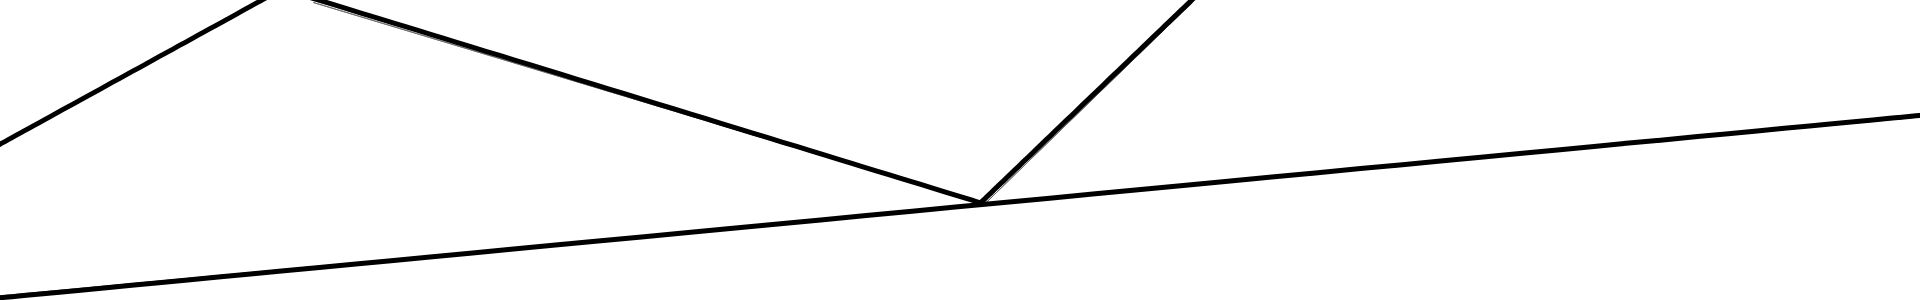
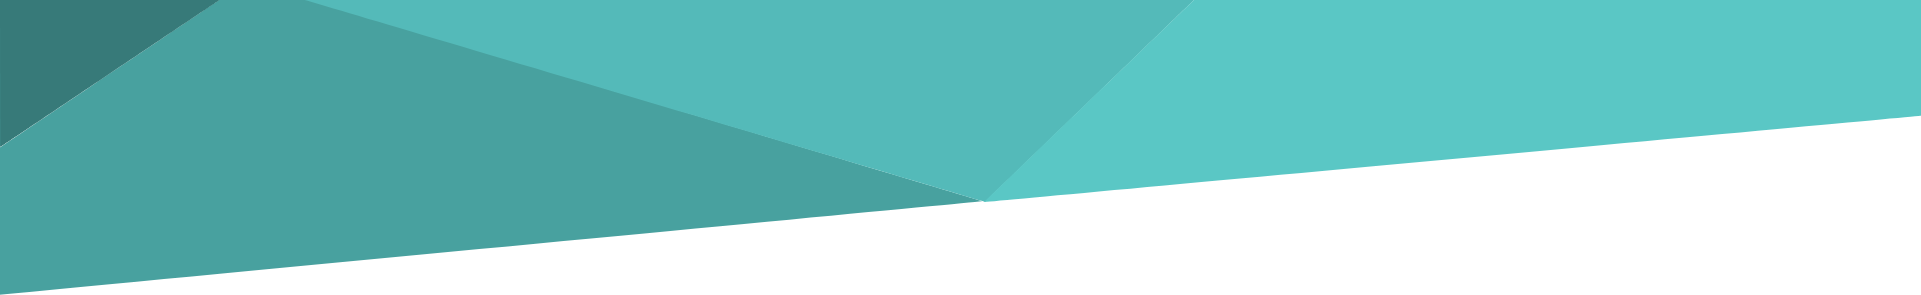
update background and header

diff --git a/projets.html b/projets.html
@@ -1,25 +1,48 @@
 <!DOCTYPE html>
 <html lang="fr">
-<head>
-  <meta charset="UTF-8">
-  <meta http-equiv="X-UA-Compatible" content="IE=edge">
-  <meta name="viewport" content="width=device-width, initial-scale=1.0">
-  <link rel="stylesheet" href="style.css">
-  <title>Caroline Vézina - projets</title>
-</head>
-<body>
-  <header>
-    <div class="mainTitle">
-      <h1>CAROLINE VÉZINA</h1>
-      <h2>DÉVELOPPEUR WEB spécialisation FRONT-END</h2>
-    </div>
-    <div class="contact">
-      <ul>
-				<li><a href="" title="à venir"> linkedin</a></li>
-				<li><a href="" title="à venir"> courriel</a></li>
-			</ul>
-    </div>
-  </header> 
+  <head>
+    <meta charset="UTF-8">
+    <meta http-equiv="X-UA-Compatible" content="IE=edge">
+    <meta name="viewport" content="width=device-width, initial-scale=1.0">
+    <link href="https://cdn.jsdelivr.net/npm/bootstrap@5.2.0-beta1/dist/css/bootstrap.min.css" rel="stylesheet" integrity="sha384-0evHe/X+R7YkIZDRvuzKMRqM+OrBnVFBL6DOitfPri4tjfHxaWutUpFmBp4vmVor" crossorigin="anonymous">
+    <link rel="stylesheet" href="style.css">
+    <title>Caroline Vézina - présentation</title>
+  </head>
+  <body>
+    <header class="navbar bd-navbar sticky-top">
+      <nav class="container-fluid bd-gutter flex-wrap flex-lg-nowrap" aria-label="Main navigation">
+          
+        <a class="navbar-brand p-0 me-0 me-lg-2" href="index.html" >
+          <h1>CAROLINE VÉZINA</h1>
+          <h2>DÉVELOPPEUR WEB spécialisation FRONT-END</h2>
+        </a>     
+    
+        <div>  
+          <div >  
+            <ul class="navbar-nav ms-md-auto">
+              <li class="nav-item col-6 col-lg-auto">
+                <a class="nav-link py-2 px-0 px-lg-2" href="https://www.linkedin.com/in/carolinevézina" target="_blank" rel="noopener">
+                  <svg xmlns="http://www.w3.org/2000/svg" width="20" height="20" fill="currentColor" class="bi bi-linkedin" viewBox="0 0 16 16">
+                    <path d="M0 1.146C0 .513.526 0 1.175 0h13.65C15.474 0 16 .513 16 1.146v13.708c0 .633-.526 1.146-1.175 1.146H1.175C.526 16 0 15.487 0 14.854V1.146zm4.943 12.248V6.169H2.542v7.225h2.401zm-1.2-8.212c.837 0 1.358-.554 1.358-1.248-.015-.709-.52-1.248-1.342-1.248-.822 0-1.359.54-1.359 1.248 0 .694.521 1.248 1.327 1.248h.016zm4.908 8.212V9.359c0-.216.016-.432.08-.586.173-.431.568-.878 1.232-.878.869 0 1.216.662 1.216 1.634v3.865h2.401V9.25c0-2.22-1.184-3.252-2.764-3.252-1.274 0-1.845.7-2.165 1.193v.025h-.016a5.54 5.54 0 0 1 .016-.025V6.169h-2.4c.03.678 0 7.225 0 7.225h2.4z"/>
+                  </svg>
+                  <small class="d-lg-none ms-2">linkedin</small>
+                </a>
+              </li>
+              <li class="nav-item col-6 col-lg-auto">
+                <a class="nav-link py-2 px-0 px-lg-2" href="mailto:caroline_vezina@hotmail.com" target="_blank" rel="noopener">
+                  <svg xmlns="http://www.w3.org/2000/svg" width="20" height="20" fill="currentColor" class="bi bi-envelope-fill" viewBox="0 0 16 16">
+                    <path d="M.05 3.555A2 2 0 0 1 2 2h12a2 2 0 0 1 1.95 1.555L8 8.414.05 3.555ZM0 4.697v7.104l5.803-3.558L0 4.697ZM6.761 8.83l-6.57 4.027A2 2 0 0 0 2 14h12a2 2 0 0 0 1.808-1.144l-6.57-4.027L8 9.586l-1.239-.757Zm3.436-.586L16 11.801V4.697l-5.803 3.546Z"/>
+                  </svg>
+                  <small class="d-lg-none ms-2">courriel</small>
+                </a>
+              </li>  
+            </ul>
+          </div>
+        </div>
+  
+      </nav>
+      
+    </header> 
 
   <div class="body">
 
@@ -37,18 +60,20 @@
     <div class="main">
       <div class="projets">
         <ul>
-          <li><a href="https://asso-vignoblebordeaux.netlify.app" target="_blank">HTML + CSS + Bootstrap</a></li>
-          <li><a href="https://dicegame50.netlify.app" target="_blank">JavaScript</a></li>
-          <li><a href="" >Adobe Xd</a></li>
-          <li><a href="https://agencevoyageav.go.yj.fr/" target="_blank">CMS Wordpress</a></li>
-          <li><a href="https://oursupermusicapp.netlify.app" target="_blank">React JS</a></li>
-          <li><a href="" title="à venir">Front-End</a></li>      
-          <li><a href="https://carolinealetranger.netlify.app" target="_blank">projet personnel</a></li>
+          <li><a href="" target="_blank" title="à venir">HTML + CSS + Bootstrap</a></li>
+          <li><a href="" target="_blank" title="à venir">JavaScript</a></li>
+          <li><a href="" target="_blank" title="à venir">Adobe Xd</a></li>
+          <li><a href="" target="_blank" title="à venir">CMS Wordpress</a></li>
+          <li><a href="" target="_blank" title="à venir">React JS</a></li>
+          <li><a href="" target="_blank" title="à venir">Vue JS</a></li>
+          <li><a href="" target="_blank" title="à venir">Front-End</a></li>      
+          <li><a href="" target="_blank" title="à venir">projet personnel</a></li>
         </ul>
       </div>
     </div>
 
   </div>
   
+  <script src="https://cdn.jsdelivr.net/npm/bootstrap@5.2.0-beta1/dist/js/bootstrap.bundle.min.js" integrity="sha384-pprn3073KE6tl6bjs2QrFaJGz5/SUsLqktiwsUTF55Jfv3qYSDhgCecCxMW52nD2" crossorigin="anonymous"></script>
 </body>
 </html>

diff --git a/index.html b/index.html
@@ -4,26 +4,49 @@
   <meta charset="UTF-8">
   <meta http-equiv="X-UA-Compatible" content="IE=edge">
   <meta name="viewport" content="width=device-width, initial-scale=1.0">
+  <link href="https://cdn.jsdelivr.net/npm/bootstrap@5.2.0-beta1/dist/css/bootstrap.min.css" rel="stylesheet" integrity="sha384-0evHe/X+R7YkIZDRvuzKMRqM+OrBnVFBL6DOitfPri4tjfHxaWutUpFmBp4vmVor" crossorigin="anonymous">
   <link rel="stylesheet" href="style.css">
   <title>Caroline Vézina - présentation</title>
 </head>
 <body>
-  <header>
-    <div class="mainTitle">
-      <h1>CAROLINE VÉZINA</h1>
-      <h2>DÉVELOPPEUR WEB spécialisation FRONT-END</h2>
-    </div>
-    <div class="contact">
-      <ul>
-				<li><a href="" title="à venir"> linkedin</a></li>
-				<li><a href="" title="à venir"> courriel</a></li>
-			</ul>
-    </div>
+  <header class="navbar bd-navbar sticky-top">
+    <nav class="container-fluid bd-gutter flex-wrap flex-lg-nowrap" aria-label="Main navigation">
+        
+      <a class="navbar-brand p-0 me-0 me-lg-2" href="index.html" >
+        <h1>CAROLINE VÉZINA</h1>
+        <h2>DÉVELOPPEUR WEB spécialisation FRONT-END</h2>
+      </a>     
+  
+      <div>  
+        <div >  
+          <ul class="navbar-nav ms-md-auto">
+            <li class="nav-item col-6 col-lg-auto">
+              <a class="nav-link py-2 px-0 px-lg-2" href="https://www.linkedin.com/in/carolinevézina" target="_blank" rel="noopener">
+                <svg xmlns="http://www.w3.org/2000/svg" width="20" height="20" fill="currentColor" class="bi bi-linkedin" viewBox="0 0 16 16">
+                  <path d="M0 1.146C0 .513.526 0 1.175 0h13.65C15.474 0 16 .513 16 1.146v13.708c0 .633-.526 1.146-1.175 1.146H1.175C.526 16 0 15.487 0 14.854V1.146zm4.943 12.248V6.169H2.542v7.225h2.401zm-1.2-8.212c.837 0 1.358-.554 1.358-1.248-.015-.709-.52-1.248-1.342-1.248-.822 0-1.359.54-1.359 1.248 0 .694.521 1.248 1.327 1.248h.016zm4.908 8.212V9.359c0-.216.016-.432.08-.586.173-.431.568-.878 1.232-.878.869 0 1.216.662 1.216 1.634v3.865h2.401V9.25c0-2.22-1.184-3.252-2.764-3.252-1.274 0-1.845.7-2.165 1.193v.025h-.016a5.54 5.54 0 0 1 .016-.025V6.169h-2.4c.03.678 0 7.225 0 7.225h2.4z"/>
+                </svg>
+                <small class="d-lg-none ms-2">linkedin</small>
+              </a>
+            </li>
+            <li class="nav-item col-6 col-lg-auto">
+              <a class="nav-link py-2 px-0 px-lg-2" href="mailto:caroline_vezina@hotmail.com" target="_blank" rel="noopener">
+                <svg xmlns="http://www.w3.org/2000/svg" width="20" height="20" fill="currentColor" class="bi bi-envelope-fill" viewBox="0 0 16 16">
+                  <path d="M.05 3.555A2 2 0 0 1 2 2h12a2 2 0 0 1 1.95 1.555L8 8.414.05 3.555ZM0 4.697v7.104l5.803-3.558L0 4.697ZM6.761 8.83l-6.57 4.027A2 2 0 0 0 2 14h12a2 2 0 0 0 1.808-1.144l-6.57-4.027L8 9.586l-1.239-.757Zm3.436-.586L16 11.801V4.697l-5.803 3.546Z"/>
+                </svg>
+                <small class="d-lg-none ms-2">courriel</small>
+              </a>
+            </li>  
+          </ul>
+        </div>
+      </div>
+
+    </nav>
+    
   </header> 
 
   <div class="body">
 
-    <nav>
+    <nav >
       <ul>
         <li><a href="index.html">présentation</a></li>
         <li><a href="cv.html" >curriculum vitae</a></li>
@@ -42,10 +65,13 @@
         <p>À la suite de mon déménagement en France, j'ai voulu faire un nouveau départ professionnel.  Étant curieuse de nature, j'aime apprendre de nouvelle chose et je m'adapte facilement à un nouvel environnement. Ayant toujours eu un intérêt pour l'informatique et le design, j'ai donc choisi une reconversion en développement web, spécialisation Front-End.</p>
 
         <p>Je suis à la recherche d'un stage pour cet été (entre juin et octobre).  Puisque mes études sont toujours en cours, mes connaissances demeurent en apprentissage; je cherche donc à travailler pour une entreprise dynamique où je développerai mes compétences liées à ce métier avec le soutien de collègues expérimentés.</p>
+       
       </div>
     </div>
 
   </div>
   
+
+  <script src="https://cdn.jsdelivr.net/npm/bootstrap@5.2.0-beta1/dist/js/bootstrap.bundle.min.js" integrity="sha384-pprn3073KE6tl6bjs2QrFaJGz5/SUsLqktiwsUTF55Jfv3qYSDhgCecCxMW52nD2" crossorigin="anonymous"></script>
 </body>
 </html>

diff --git a/cv.html b/cv.html
@@ -1,25 +1,48 @@
 <!DOCTYPE html>
 <html lang="fr">
-<head>
-  <meta charset="UTF-8">
-  <meta http-equiv="X-UA-Compatible" content="IE=edge">
-  <meta name="viewport" content="width=device-width, initial-scale=1.0">
-  <link rel="stylesheet" href="style.css">
-  <title>Caroline Vézina - curriculum vitae</title>
-</head>
-<body>
-  <header>
-    <div class="mainTitle">
-      <h1>CAROLINE VÉZINA</h1>
-      <h2>DÉVELOPPEUR WEB spécialisation FRONT-END</h2>
-    </div>
-    <div class="contact">
-      <ul>
-				<li><a href="" title="à venir"> linkedin</a></li>
-				<li><a href="" title="à venir"> courriel</a></li>
-			</ul>
-    </div>
-  </header> 
+  <head>
+    <meta charset="UTF-8">
+    <meta http-equiv="X-UA-Compatible" content="IE=edge">
+    <meta name="viewport" content="width=device-width, initial-scale=1.0">
+    <link href="https://cdn.jsdelivr.net/npm/bootstrap@5.2.0-beta1/dist/css/bootstrap.min.css" rel="stylesheet" integrity="sha384-0evHe/X+R7YkIZDRvuzKMRqM+OrBnVFBL6DOitfPri4tjfHxaWutUpFmBp4vmVor" crossorigin="anonymous">
+    <link rel="stylesheet" href="style.css">
+    <title>Caroline Vézina - présentation</title>
+  </head>
+  <body>
+    <header class="navbar bd-navbar sticky-top">
+      <nav class="container-fluid bd-gutter flex-wrap flex-lg-nowrap" aria-label="Main navigation">
+          
+        <a class="navbar-brand p-0 me-0 me-lg-2" href="index.html" >
+          <h1>CAROLINE VÉZINA</h1>
+          <h2>DÉVELOPPEUR WEB spécialisation FRONT-END</h2>
+        </a>     
+    
+        <div>  
+          <div >  
+            <ul class="navbar-nav ms-md-auto">
+              <li class="nav-item col-6 col-lg-auto">
+                <a class="nav-link py-2 px-0 px-lg-2" href="https://www.linkedin.com/in/carolinevézina" target="_blank" rel="noopener">
+                  <svg xmlns="http://www.w3.org/2000/svg" width="20" height="20" fill="currentColor" class="bi bi-linkedin" viewBox="0 0 16 16">
+                    <path d="M0 1.146C0 .513.526 0 1.175 0h13.65C15.474 0 16 .513 16 1.146v13.708c0 .633-.526 1.146-1.175 1.146H1.175C.526 16 0 15.487 0 14.854V1.146zm4.943 12.248V6.169H2.542v7.225h2.401zm-1.2-8.212c.837 0 1.358-.554 1.358-1.248-.015-.709-.52-1.248-1.342-1.248-.822 0-1.359.54-1.359 1.248 0 .694.521 1.248 1.327 1.248h.016zm4.908 8.212V9.359c0-.216.016-.432.08-.586.173-.431.568-.878 1.232-.878.869 0 1.216.662 1.216 1.634v3.865h2.401V9.25c0-2.22-1.184-3.252-2.764-3.252-1.274 0-1.845.7-2.165 1.193v.025h-.016a5.54 5.54 0 0 1 .016-.025V6.169h-2.4c.03.678 0 7.225 0 7.225h2.4z"/>
+                  </svg>
+                  <small class="d-lg-none ms-2">linkedin</small>
+                </a>
+              </li>
+              <li class="nav-item col-6 col-lg-auto">
+                <a class="nav-link py-2 px-0 px-lg-2" href="mailto:caroline_vezina@hotmail.com" target="_blank" rel="noopener">
+                  <svg xmlns="http://www.w3.org/2000/svg" width="20" height="20" fill="currentColor" class="bi bi-envelope-fill" viewBox="0 0 16 16">
+                    <path d="M.05 3.555A2 2 0 0 1 2 2h12a2 2 0 0 1 1.95 1.555L8 8.414.05 3.555ZM0 4.697v7.104l5.803-3.558L0 4.697ZM6.761 8.83l-6.57 4.027A2 2 0 0 0 2 14h12a2 2 0 0 0 1.808-1.144l-6.57-4.027L8 9.586l-1.239-.757Zm3.436-.586L16 11.801V4.697l-5.803 3.546Z"/>
+                  </svg>
+                  <small class="d-lg-none ms-2">courriel</small>
+                </a>
+              </li>  
+            </ul>
+          </div>
+        </div>
+  
+      </nav>
+      
+    </header> 
 
   <div class="body">
 
@@ -44,5 +67,6 @@
 
   </div>
 
+  <script src="https://cdn.jsdelivr.net/npm/bootstrap@5.2.0-beta1/dist/js/bootstrap.bundle.min.js" integrity="sha384-pprn3073KE6tl6bjs2QrFaJGz5/SUsLqktiwsUTF55Jfv3qYSDhgCecCxMW52nD2" crossorigin="anonymous"></script>
 </body>
 </html>

diff --git a/style.css b/style.css
@@ -8,49 +8,40 @@ header {
   background-repeat: no-repeat;
   background-size: contain;
   height: 300px;
-  width: 100%;
-  margin-top: -10px;
-  margin-left: -10px;
-  margin-right: -10px;
-  display: flex;
-}
-
-.mainTitle {
-  text-align: center;
-
 }
 
 h1 {
-  font-size: 60px;
-  margin: 90px 90px 0px 90px;
+  font-size: 50px;
 }
 h2 {
-  font-size: 24px;
+  font-size: 20px;
   margin-top: -10px;
 }
 h3 {
   font-size: 40px;
 }
 
-.contact {
-  text-align: right;
-  
+.navbar-brand {
+ margin-left: 100px;
+}
+
+.navbar-nav {
+  margin-top: 80px;
+}
+
+.bi {
+  color: black;
 }
 
 .body {
   background-image: url('images/background_body.png') ;
   background-repeat: no-repeat;
-  background-size: cover;   
-  margin-left: -10px;
-  margin-right: -10px;
+  background-size: cover;
 }
+
 .main {  
   display: flex;
   justify-content: center;
-}
-
-nav {
-  
 }
 
 .presentation, .cv, .projets {
